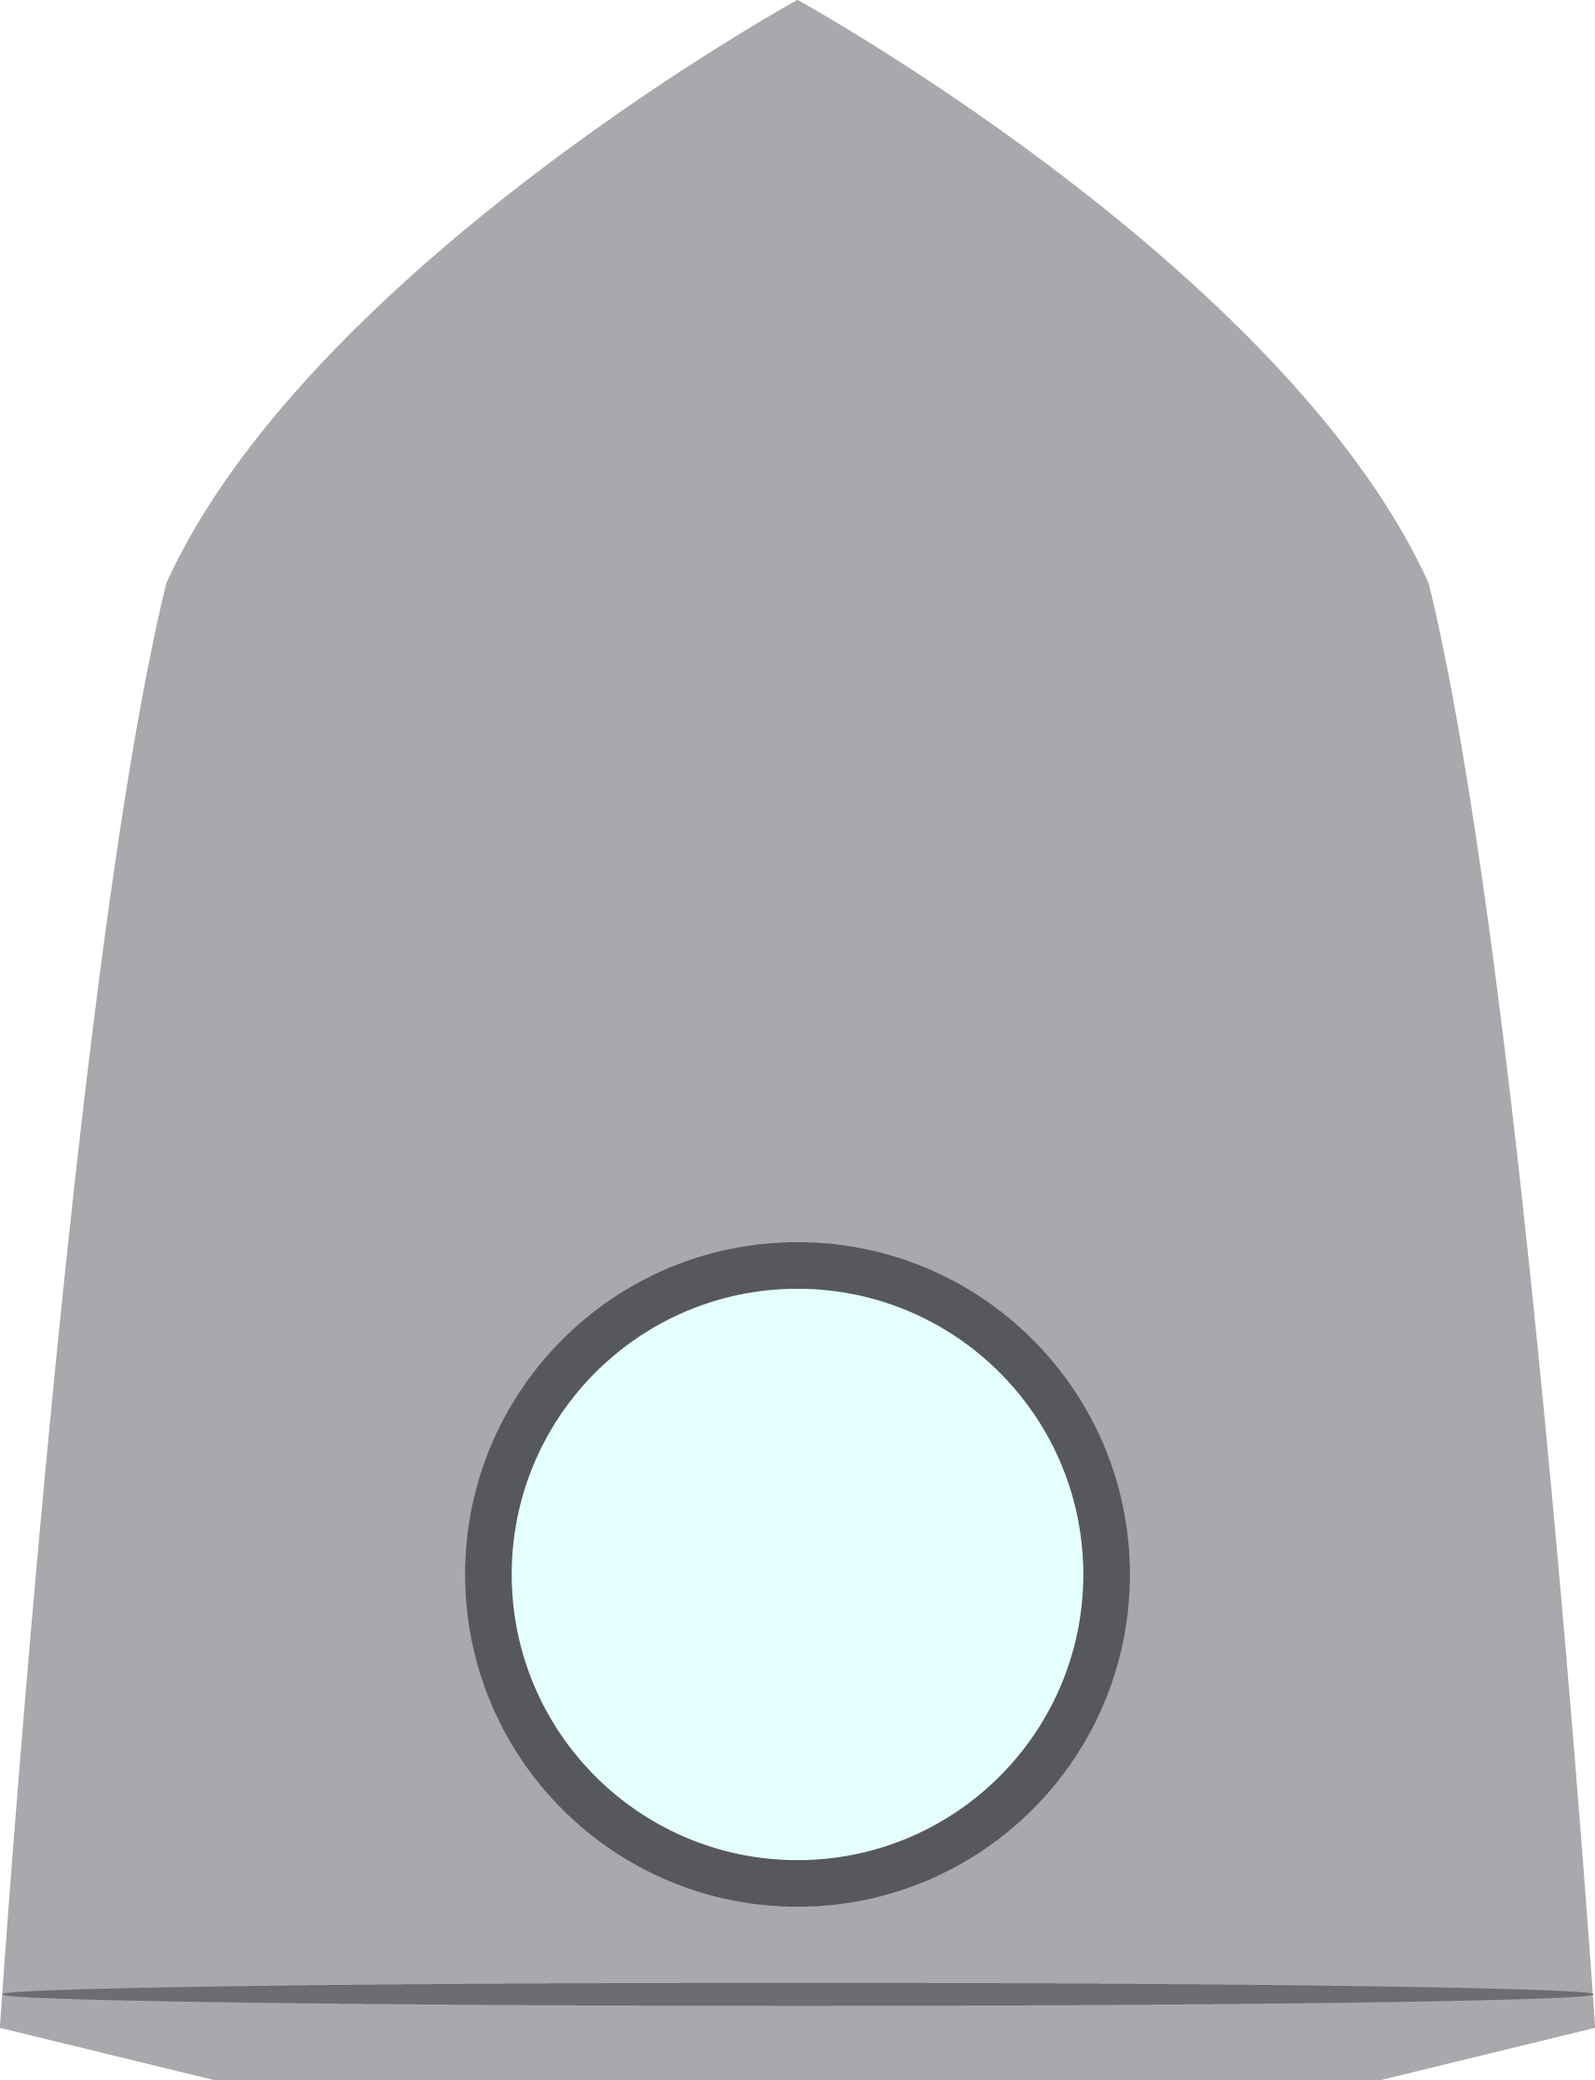
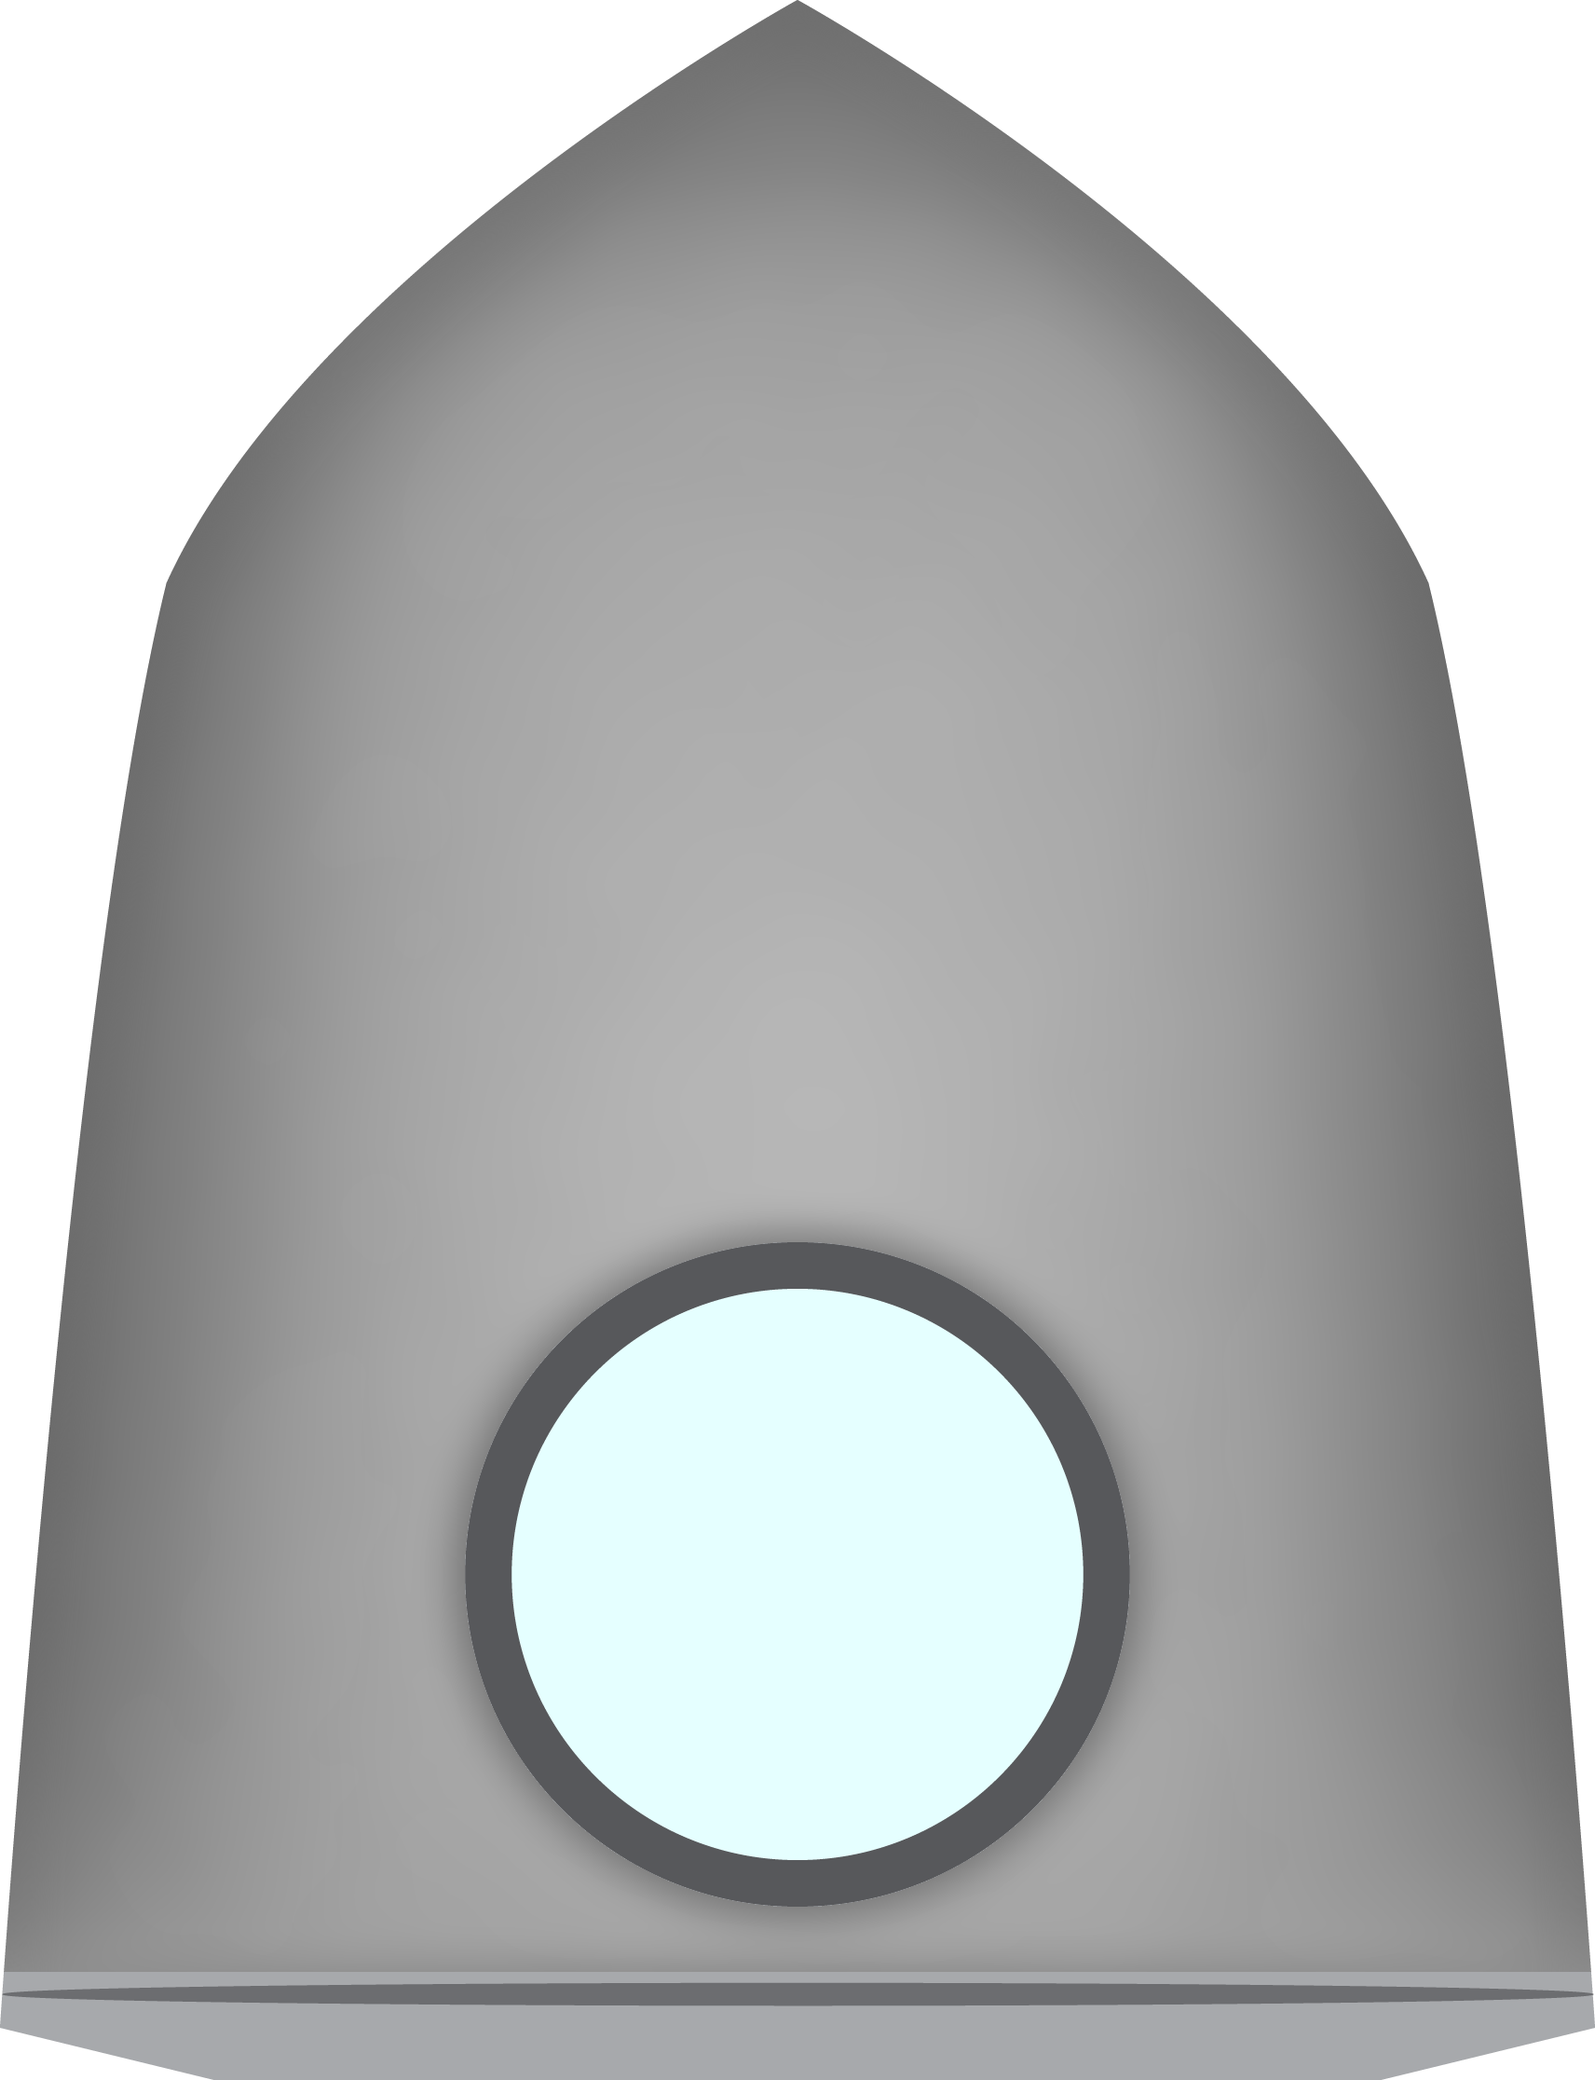
Add cart teleport utility and refine ship artwork

diff --git a/mac/tests/teleport.mm b/mac/tests/teleport.mm
@@ -1,0 +1,73 @@
+#import "PlayerCart.h"
+#import "PeonWideScreen.h"
+#import "Box2DHelpers.h"
+BOOL PeonKeyDown(unsigned short code) __asm("_PeonKeyDown");
+BOOL PeonKeyDown(unsigned short code) { return NO; }
+@interface PreviewView : NSObject
+@property(retain) NSOpenGLPixelFormat *pixelFormat;
+@property(retain) NSOpenGLContext *openGLContext;
+@end
+@implementation PreviewView
+- (NSRect)bounds { return NSMakeRect(0,0,1365.333333,768); }
+- (NSRect)convertRectToBacking:(NSRect)rect { return rect; }
+- (NSUInteger)depthFormat { return 0; }
+- (void)setEventDelegate:(id)delegate {}
+- (void)setAcceptsTouchEvents:(BOOL)accepts {}
+- (void)lockOpenGLContext {}
+- (void)unlockOpenGLContext {}
+@end
+static void near(double a, double b) { NSCAssert(fabs(a-b)<0.02,@"Teleport mismatch: %f != %f",a,b); }
+int main(int argc, const char **argv) {
+ @autoreleasepool {
+  CGLPixelFormatAttribute attributes[]={kCGLPFAAllowOfflineRenderers,(CGLPixelFormatAttribute)0};
+  CGLPixelFormatObj format; CGLContextObj context; GLint count;
+  NSCAssert(CGLChoosePixelFormat(attributes,&format,&count)==kCGLNoError,@"Pixel format");
+  NSCAssert(CGLCreateContext(format,NULL,&context)==kCGLNoError,@"Context");
+  CGLDestroyPixelFormat(format); CGLSetCurrentContext(context);
+  [[PeonWideScreen sharedPresentation] setCartCreation:YES];
+  PreviewView *view=[[[PreviewView alloc] init] autorelease];
+  NSOpenGLPixelFormatAttribute nativeAttributes[]={NSOpenGLPFAAllowOfflineRenderers,0};
+  view.pixelFormat=[[[NSOpenGLPixelFormat alloc] initWithAttributes:nativeAttributes] autorelease];
+  view.openGLContext=[[[NSOpenGLContext alloc] initWithCGLContextObj:context] autorelease];
+  CCDirector *director=[CCDirector sharedDirector];
+  NSString *resources=@(argv[1]);
+  [[CCSpriteFrameCache sharedSpriteFrameCache] addSpriteFramesWithFile:[resources stringByAppendingPathComponent:@"menuItemsAtlas.plist"] textureFilename:[resources stringByAppendingPathComponent:@"menuItemsAtlas.png"]];
+  [CCFileUtils sharedFileUtils].searchPath=@[resources];
+  [CCFileUtils sharedFileUtils].enableFallbackSuffixes=NO;
+  [director setView:(CCGLView *)view];
+
+
+  b2World world(b2Vec2(0,-10));
+  PlayerCart *cart=[[[PlayerCart alloc] initWithWorld:&world atLocation:ccp(320,320)] autorelease];
+  cart.body->SetType(b2_dynamicBody);
+  b2CircleShape circle; circle.m_radius=1;
+  cart.body->CreateFixture(&circle,1);
+  b2BodyDef definition; definition.type=b2_dynamicBody; definition.userData=cart;
+  definition.position=cart.body->GetPosition()+b2Vec2(4,0);
+  definition.angle=.4;
+  b2Body *wheel=world.CreateBody(&definition); wheel->CreateFixture(&circle,1);
+  b2DistanceJointDef joint;
+  joint.Initialize(cart.body,wheel,cart.body->GetPosition(),wheel->GetPosition());
+  world.CreateJoint(&joint);
+  definition.position=b2Vec2(-100,10);
+  b2Body *detached=world.CreateBody(&definition); detached->CreateFixture(&circle,1);
+  cart.body->SetLinearVelocity(b2Vec2(7,2)); wheel->SetAngularVelocity(5);
+  CCNode *camera=[CCNode node]; camera.position=ccp(-500,-100); camera.scale=.5;
+  CGPoint destination=[camera convertToNodeSpace:ccp(512,384)];
+  [cart teleportToPosition:destination];
+  b2Vec2 center=.5f*(cart.body->GetPosition()+wheel->GetPosition());
+  near(center.x*pixelsToMeterRatio(),destination.x); near(center.y*pixelsToMeterRatio(),destination.y);
+  near(wheel->GetPosition().x-cart.body->GetPosition().x,4);
+  near(wheel->GetAngle(),.4);
+  near(cart.body->GetLinearVelocity().Length(),0); near(wheel->GetAngularVelocity(),0);
+  near(detached->GetPosition().x,-100);
+  NSCAssert(world.GetJointCount()==1,@"Teleport destroyed a cart joint");
+  world.Step(1.0/60,10,8);
+  near((wheel->GetPosition()-cart.body->GetPosition()).Length(),4);
+  [cart teleportToPosition:ccp(1000,1000)];
+  center=.5f*(cart.body->GetPosition()+wheel->GetPosition());
+  near(center.x*pixelsToMeterRatio(),1000); near(center.y*pixelsToMeterRatio(),1000);
+  puts("Teleport camera conversion, assembly center, joint preservation, motion reset and detached parts: PASS");
+  exit(0);
+ }
+}

diff --git a/mac/Main.m b/mac/Main.m
@@ -25,6 +25,10 @@ BOOL PeonKeyDown(unsigned short code) { return ![inspectionScene() inspectionCam
     if ([inspectionScene() inspectionCameraEnabled]) {
         [self.openGLContext makeCurrentContext];
         switch(event.keyCode) {
+            case 17:
+                if (!event.isARepeat && !(event.modifierFlags & (NSEventModifierFlagCommand | NSEventModifierFlagControl | NSEventModifierFlagOption)))
+                    [inspectionScene() teleportCartToScreenCenter];
+                break;
             case 0: case 123: [inspectionScene() panInspectionCameraBy:ccp(128,0)]; break;
             case 2: case 124: [inspectionScene() panInspectionCameraBy:ccp(-128,0)]; break;
             case 13: case 126: [inspectionScene() panInspectionCameraBy:ccp(0,-128)]; break;
@@ -42,6 +46,10 @@ BOOL PeonKeyDown(unsigned short code) { return ![inspectionScene() inspectionCam
         if (event.keyCode==53) {
             [self.openGLContext makeCurrentContext];
             PeonDismissOpenMenu();
+        }
+        if (event.keyCode==17) {
+            [self.openGLContext makeCurrentContext];
+            [inspectionScene() teleportCartToScreenCenter];
         }
         if (event.keyCode==46) [[GameManager sharedGameManager] playNextTrackForCurrentScene];
         if (event.keyCode==15 || event.keyCode==8) {
@@ -114,6 +122,10 @@ BOOL PeonKeyDown(unsigned short code) { return ![inspectionScene() inspectionCam
     PeonRequestScreenshot([[NSHomeDirectory() stringByAppendingPathComponent:@"Desktop"] stringByAppendingPathComponent:name]);
 }
 - (BOOL)validateMenuItem:(NSMenuItem *)item {
+    if(item.action==@selector(toggleTeleportCart:)) {
+        item.state=[[NSUserDefaults standardUserDefaults] boolForKey:@"PeonTeleportCart"]?NSControlStateValueOn:NSControlStateValueOff;
+        return YES;
+    }
     if(item.action==@selector(toggleShipFinishTrigger:)) {
         item.state=[[NSUserDefaults standardUserDefaults] boolForKey:@"PeonDisableShipFinishTrigger"]?NSControlStateValueOn:NSControlStateValueOff;
         return YES;
@@ -138,6 +150,11 @@ BOOL PeonKeyDown(unsigned short code) { return ![inspectionScene() inspectionCam
     return YES;
 }
 
+- (void)toggleTeleportCart:(NSMenuItem *)item {
+    BOOL enabled=![[NSUserDefaults standardUserDefaults] boolForKey:@"PeonTeleportCart"];
+    [[NSUserDefaults standardUserDefaults] setBool:enabled forKey:@"PeonTeleportCart"];
+    item.state=enabled?NSControlStateValueOn:NSControlStateValueOff;
+}
 - (void)toggleShipFinishTrigger:(NSMenuItem *)item {
     BOOL disabled=![[NSUserDefaults standardUserDefaults] boolForKey:@"PeonDisableShipFinishTrigger"];
     [[NSUserDefaults standardUserDefaults] setBool:disabled forKey:@"PeonDisableShipFinishTrigger"];
@@ -179,6 +196,9 @@ BOOL PeonKeyDown(unsigned short code) { return ![inspectionScene() inspectionCam
     NSMenuItem *shipTriggerItem=[appMenu addItemWithTitle:@"Disable Ship Finish Trigger" action:@selector(toggleShipFinishTrigger:) keyEquivalent:@""];
     shipTriggerItem.target=self;
     shipTriggerItem.state=[[NSUserDefaults standardUserDefaults] boolForKey:@"PeonDisableShipFinishTrigger"]?NSControlStateValueOn:NSControlStateValueOff;
+    NSMenuItem *teleportItem=[appMenu addItemWithTitle:@"Enable Cart Teleport (T)" action:@selector(toggleTeleportCart:) keyEquivalent:@""];
+    teleportItem.target=self;
+    teleportItem.state=[[NSUserDefaults standardUserDefaults] boolForKey:@"PeonTeleportCart"]?NSControlStateValueOn:NSControlStateValueOff;
     NSMenuItem *panItem=[appMenu addItemWithTitle:@"Mouse Pan Map" action:@selector(toggleMousePan:) keyEquivalent:@""];
     panItem.target=self;
     NSMenuItem *unlockItem=[appMenu addItemWithTitle:@"Unlock All Levels" action:@selector(toggleUnlockAllLevels:) keyEquivalent:@""];

diff --git a/rover/PlayerCart.mm b/rover/PlayerCart.mm
@@ -134,6 +134,51 @@
     [self regainFuel];
 }
 
+#ifdef PROJECTPEON_MAC
+-(void)teleportToPosition:(CGPoint)position
+{
+    if (!body || world->IsLocked()) return;
+    // Move the connected assembly together so joints and relative angles survive.
+    // Detached parts elsewhere in the level aren't part of this assembly.
+    std::vector<b2Body *> assembly(1, body);
+    for (size_t i = 0; i < assembly.size(); ++i)
+    {
+        for (b2JointEdge *edge = assembly[i]->GetJointList(); edge; edge = edge->next)
+        {
+            if (edge->other->GetUserData() != self) continue;
+            BOOL known = NO;
+            for (b2Body *member : assembly) if (member == edge->other) known = YES;
+            if (!known) assembly.push_back(edge->other);
+        }
+    }
+    b2AABB bounds;
+    BOOL hasBounds = NO;
+    for (b2Body *member : assembly)
+        for (b2Fixture *fixture = member->GetFixtureList(); fixture; fixture = fixture->GetNext())
+        {
+            if (fixture->IsSensor()) continue;
+            const b2Shape *shape = fixture->GetShape();
+            for (int child = 0; child < shape->GetChildCount(); ++child)
+            {
+                b2AABB partBounds;
+                shape->ComputeAABB(&partBounds, member->GetTransform(), child);
+                if (hasBounds) bounds.Combine(partBounds);
+                else { bounds = partBounds; hasBounds = YES; }
+            }
+        }
+    if (!hasBounds) return;
+    b2Vec2 shift = b2Vec2(position.x/pixelsToMeterRatio(), position.y/pixelsToMeterRatio()) - bounds.GetCenter();
+    for (b2Body *member : assembly)
+    {
+        member->SetTransform(member->GetPosition() + shift, member->GetAngle());
+        member->SetLinearVelocity(b2Vec2_zero);
+        member->SetAngularVelocity(0);
+        member->SetAwake(true);
+    }
+    [self setPosition:ccp(body->GetPosition().x*pixelsToMeterRatio(), body->GetPosition().y*pixelsToMeterRatio())];
+}
+#endif
+
 -(void)moveBodyToCart
 {
     if ([components count])

diff --git a/mac/tests/check_teleport.py b/mac/tests/check_teleport.py
@@ -1,0 +1,19 @@
+#!/usr/bin/env python3
+"""Verify cart teleport geometry and joint preservation."""
+import hashlib, pathlib, subprocess, tempfile
+root=pathlib.Path(__file__).resolve().parents[2]
+objects=root/'build/mac/objects'
+main=hashlib.sha1(b'mac/Main.m').hexdigest()+'.o'
+with tempfile.TemporaryDirectory(prefix='peon-teleport-') as directory:
+    binary=pathlib.Path(directory)/'check-teleport'
+    command=['xcrun','clang++','-std=c++11','-Wno-deprecated-declarations','-DPROJECTPEON_MAC=1','-DCC_DIRECTOR_MAC_THREAD=2','-fno-objc-arc','-fblocks']
+    for path in ['mac','mac/compat','rover','rover/libs','rover/cocos2d','rover/cocos2d/Support','rover/PRKit','rover/Tutorial','rover/libs/kazmath/include']:
+        command+=['-I',str(root/path)]
+    
+    for path in sorted({f.parent for f in (root/'rover').rglob('*.h')}):
+        command+=['-I',str(path)]
+    command+=['-include',str(root/'mac/Prefix.pch'),str(root/'mac/tests/teleport.mm'),*[str(p) for p in objects.glob('*.o') if p.name!=main and len(p.stem)==40],'-lc++','-lz','-o',str(binary)]
+    for framework in ['Cocoa','OpenGL','QuartzCore','CoreVideo','CoreData','AVFoundation','VideoToolbox','CoreMedia','AudioToolbox','CoreGraphics','StoreKit','SystemConfiguration','Security']:
+        command+=['-framework',framework]
+    subprocess.run(command,check=True)
+    subprocess.run([str(binary),str(root/'build/mac/Project Peon.app/Contents/Resources')],check=True)

diff --git a/rover/BaseActionLayer.mm b/rover/BaseActionLayer.mm
@@ -418,6 +418,13 @@
 }
 
 #ifdef PROJECTPEON_MAC
+-(void)teleportCartToScreenCenter {
+    if (![self drivingCameraAvailable]) return;
+    CGSize canvas = [CCDirector sharedDirector].winSize;
+    CGPoint center = [self convertToNodeSpace:ccp(canvas.width/2, canvas.height/2)];
+    [playerCart teleportToPosition:center];
+    [playerVelocities removeAllObjects];
+}
 -(BOOL)drivingCameraAvailable {
     return shouldFollowSprite && !levelWasCompleted && ![[GameManager sharedGameManager] isPaused];
 }

diff --git a/rover/BaseGameScene.mm b/rover/BaseGameScene.mm
@@ -40,6 +40,10 @@
 
 #ifdef PROJECTPEON_MAC
 @synthesize inspectionCameraEnabled;
+-(void)teleportCartToScreenCenter {
+    if (![[NSUserDefaults standardUserDefaults] boolForKey:@"PeonTeleportCart"]) return;
+    [[self inspectionActionLayer] teleportCartToScreenCenter];
+}
 -(BOOL)drivingCameraAvailable {
     return !inspectionCameraEnabled && [[self inspectionActionLayer] drivingCameraAvailable];
 }

diff --git a/rover/BaseGameScene.h b/rover/BaseGameScene.h
@@ -20,6 +20,7 @@
 #ifdef PROJECTPEON_MAC
 @property (nonatomic, readonly) BOOL inspectionCameraEnabled;
 -(BOOL)drivingCameraAvailable;
+-(void)teleportCartToScreenCenter;
 -(void)panDrivingCameraBy:(CGPoint)delta;
 -(void)setInspectionCameraEnabled:(BOOL)enabled;
 -(void)panInspectionCameraBy:(CGPoint)delta;

diff --git a/rover/PlayerCart.h b/rover/PlayerCart.h
@@ -24,6 +24,9 @@
 
 - (id)initWithWorld:(b2World *)world atLocation:(CGPoint)location;
 - (float32)fullMass;
+#ifdef PROJECTPEON_MAC
+-(void)teleportToPosition:(CGPoint)position;
+#endif
 -(void)createCartPhysics;
 -(void)resetCartBody;
 -(void)moveBodyToCart;

diff --git a/rover/BaseActionLayer.h b/rover/BaseActionLayer.h
@@ -43,6 +43,7 @@
 @property (nonatomic, retain) PlayerCart* playerCart;
 #ifdef PROJECTPEON_MAC
 -(BOOL)drivingCameraAvailable;
+-(void)teleportCartToScreenCenter;
 -(void)panDrivingCameraBy:(CGPoint)delta;
 #endif
 -(NSString*)TileMapName;

diff --git a/mac/README.md b/mac/README.md
@@ -56,3 +56,5 @@ Gameplay recording is off by default and the export button is hidden while disab
 Use Project Peon → Show Box2D Objects to overlay physics bodies and joints in cart creation and gameplay. It is off by default and remembered between launches.
 
 Project Peon → Disable Ship Finish Trigger keeps driving active when the cart reaches the ship. Uncheck it to restore normal completion; it is off by default and remembered between launches.
+
+Project Peon → Enable Cart Teleport (T) enables pressing T during driving to move the connected cart assembly to the center of the current view. Use Mouse Pan Map to choose a destination. Teleporting stops its movement and preserves its joints; detached parts remain where they are. The toggle is off by default and remembered between launches.
